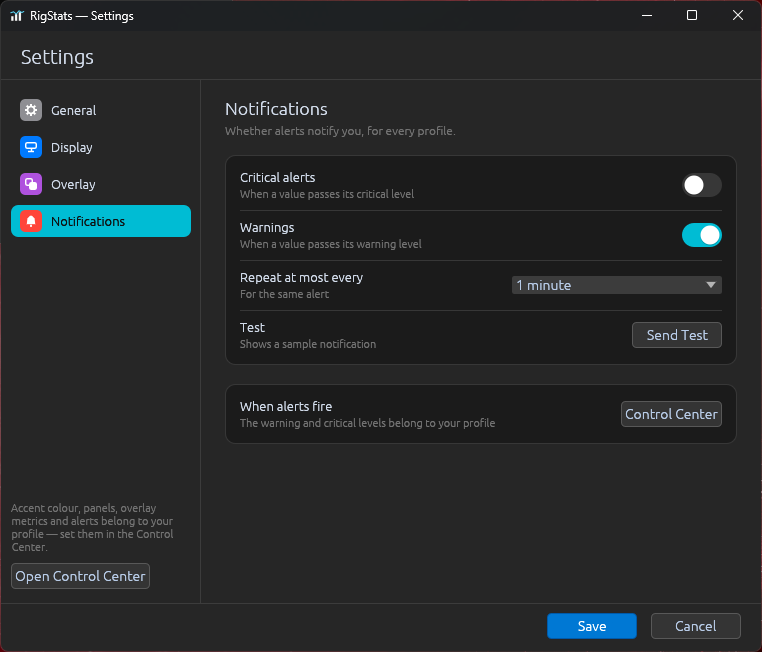
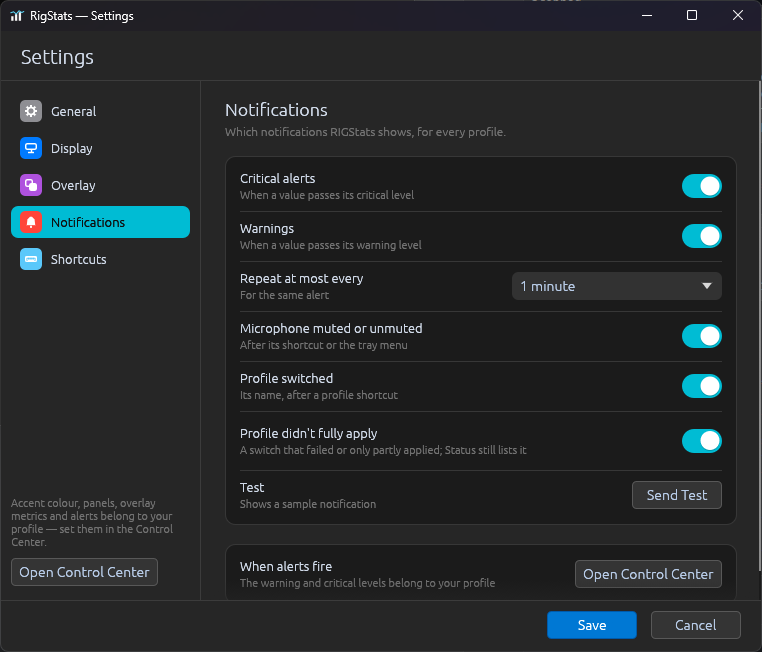
feat(settings): turn off the profile-switch notifications (#602)
Settings -> Notifications gets two switches, both on by default:
"Profile switched" (the profile's name after a profile shortcut) and
"Profile didn't fully apply" (a switch that failed or only partly
applied while the Control Center was closed, #373). With the second off,
Status -> Problems still lists the problem. The page's subtitle now
covers more than alerts.

Closes #601

diff --git a/website/index.html b/website/index.html
@@ -1077,7 +1077,7 @@
               <li><strong>General</strong> — start with Windows, model name, how long recordings are kept</li>
               <li><strong>Display</strong> — display profile, window layer (Normal / Always on Top / Always Behind / Desktop Wallpaper — survives Win+D), fill screen and position, the graphics card shown, power supply rating</li>
               <li><strong>Overlay</strong> — corner and distance from the edge, size, background and opacity, click-through</li>
-              <li><strong>Notifications</strong> — critical alerts and warnings on or off, how often an alert repeats, a test notification</li>
+              <li><strong>Notifications</strong> — critical alerts and warnings on or off, how often an alert repeats, the microphone and profile-switch notifications on or off<span class="badge-soon">Profile switches coming in v1.52.0</span>, a test notification</li>
             </ul>
           </div>
         </article>

diff --git a/rigstats-backend/src/settings.rs b/rigstats-backend/src/settings.rs
@@ -188,6 +188,15 @@ pub struct Settings {
     /// Whether muting or unmuting the microphone shows a notification (#425).
     #[serde(default = "default_true")]
     pub microphone_notify: bool,
+    /// Whether switching profile with a shortcut shows the profile's name
+    /// (#601).
+    #[serde(default = "default_true")]
+    pub profile_notify: bool,
+    /// Whether a profile switch that failed or only partly applied, with the
+    /// Control Center closed, shows a notification (#373, #601). Status →
+    /// Problems lists it either way.
+    #[serde(default = "default_true")]
+    pub profile_problem_notify: bool,
     /// The global shortcuts' chords, or off (#569); a file without them
     /// gets the chords from before (`Shortcuts::default`).
     #[serde(default)]
@@ -450,6 +459,8 @@ impl Default for Settings {
             notify_on_crit: true,
             microphone_device: None,
             microphone_notify: true,
+            profile_notify: true,
+            profile_problem_notify: true,
             shortcuts: Shortcuts::default(),
             floating_mode: false,
             floating_panel_scale: default_floating_panel_scale(),
@@ -752,6 +763,18 @@ pub fn persist_settings(dir: &Path, settings: &Settings) -> Result<(), String> {
 
 #[cfg(test)]
 mod tests {
+    #[test]
+    fn the_profile_notifications_are_on_unless_turned_off() {
+        assert!(super::Settings::default().profile_notify);
+        assert!(super::Settings::default().profile_problem_notify);
+        // A file from before #601 has neither.
+        let s: super::Settings = serde_json::from_str(r#"{"settingsVersion":1}"#).unwrap();
+        assert!(s.profile_notify && s.profile_problem_notify);
+        let s: super::Settings =
+            serde_json::from_str(r#"{"settingsVersion":1,"profileNotify":false}"#).unwrap();
+        assert!(!s.profile_notify && s.profile_problem_notify);
+    }
+
     use super::atomic_write;
 
     #[test]

diff --git a/src-egui/src/main.rs b/src-egui/src/main.rs
@@ -526,9 +526,7 @@ impl RigStatsApp {
         let next = &profiles[current_idx.map_or(0, |i| (i + 1) % profiles.len())];
         let (id, name) = (next.id.clone(), next.name.clone());
         self.apply_profile(id);
-        std::thread::spawn(move || {
-            let _ = rigstats_egui::notify::send("Profile", &name);
-        });
+        self.notify_profile_switched(name);
     }
 
     /// The profile shortcuts (Ctrl+Alt+F1…F9 by default): the profile at that position in the profile bar
@@ -544,6 +542,15 @@ impl RigStatsApp {
         }
         let (id, name) = (profile.id.clone(), profile.name.clone());
         self.apply_profile(id);
+        self.notify_profile_switched(name);
+    }
+
+    /// The profile's name after a shortcut switched to it, unless turned off
+    /// in Settings → Notifications (#601).
+    fn notify_profile_switched(&self, name: String) {
+        if !self.current_settings.lock_safe().profile_notify {
+            return;
+        }
         std::thread::spawn(move || {
             let _ = rigstats_egui::notify::send("Profile", &name);
         });
@@ -626,6 +633,11 @@ impl RigStatsApp {
         let Some(problem) = notification else {
             return;
         };
+        // Off in Settings → Notifications (#601): Status → Problems still
+        // lists it.
+        if !self.current_settings.lock_safe().profile_problem_notify {
+            return;
+        }
         let body = problem.detail.unwrap_or(problem.message);
         std::thread::spawn(move || {
             let _ = rigstats_egui::notify::send(&problem.title, &body);

diff --git a/src-egui/src/windows/settings.rs b/src-egui/src/windows/settings.rs
@@ -953,7 +953,7 @@ fn notifications_page(
         ui,
         dc,
         "Notifications",
-        "Whether alerts notify you, for every profile.",
+        "Which notifications RIGStats shows, for every profile.",
     );
     // Turned off in Windows: say so here, where someone looks first (#449).
     #[cfg(windows)]
@@ -998,6 +998,20 @@ fn notifications_page(
             Some("After its shortcut or the tray menu"),
             |ui| {
                 ui_kit::toggle(ui, dc, &mut draft.microphone_notify);
+            },
+        );
+        g.row(
+            "Profile switched",
+            Some("Its name, after a profile shortcut"),
+            |ui| {
+                ui_kit::toggle(ui, dc, &mut draft.profile_notify);
+            },
+        );
+        g.row(
+            "Profile didn't fully apply",
+            Some("A switch that failed or only partly applied; Status still lists it"),
+            |ui| {
+                ui_kit::toggle(ui, dc, &mut draft.profile_problem_notify);
             },
         );
         g.row("Test", Some("Shows a sample notification"), |ui| {

diff --git a/release-highlights.md b/release-highlights.md
@@ -16,4 +16,5 @@ comment is ignored. See "Release routine" in docs/release.md.
 # 1.52.0
 - **Compact panels** — in Control Center → Dashboard, the CPU, GPU, RAM and Network panels can be Full or Compact: the key values at a glance (load and temperature rings, usage, up/down and ping) without graphs or per-core bars, about half the height, per profile. As floating panels they are also narrower, and floating panels now scale up to 200 %, so you can make them bigger to read without them getting wide. An idea from @SirBlacky21 — thank you!
 - **Floating panels per profile** — floating panels or the fixed dashboard, and the panels' size, now follow your Control Center profile (Control Center → Dashboard): float them in one profile, keep the fixed dashboard in another, and switching profile switches the layout too. Each profile remembers where you placed its floating panels. The tray's Toggle Floating Mode is gone: switch profile instead.
+- **Quieter profile switches** — Settings → Notifications can turn off the profile's name after a profile shortcut, and the notification when a profile didn't fully apply (Status still lists that).
 - **Choose your own shortcuts** — Settings → Shortcuts lets you change or turn off each global shortcut (overlay, next profile, profile 1–9, microphone): choose New shortcut… and press the keys. You can also give a key to the tray menu's desk lamp, Control Center, Settings, Status, recording and overlay lock (off until you choose one). Handy when another program already uses a shortcut, like NVIDIA App with Ctrl+Alt+M; Status points you there when that happens.

diff --git a/src-egui/src/windows/CLAUDE.md b/src-egui/src/windows/CLAUDE.md
@@ -11,7 +11,7 @@ Every setting has exactly one home:
 | Power plan, fans, CPU/GPU limits, lighting | Start with Windows, model name, recordings |
 | Accent colour, opacity, panels, their order and which are compact, floating panels, their size and positions (#599), desktop background | Display profile, window layer, fill screen, displayed GPU, PSU |
 | Overlay shown, its metrics and layout | Overlay position, size, background, click-through |
-| Alert thresholds | Notifications on/off, repeat interval, the microphone mute toast |
+| Alert thresholds | Notifications on/off, repeat interval, the microphone mute toast, the profile-switch toasts (#601) |
 | — | Which microphone the mute shortcut mutes (#425) |
 | — | The global shortcuts (#569) — Settings → Shortcuts |
 | — | A device's own settings (headset sidetone, noise reduction, #428; headset equalizer bands, #483; mouse DPI, polling, energy …, #431; keyboard sleep, power saving, low-battery level, #460) — kept in the device, edited on the Control Center's Headset / Mouse / Keyboard page, sent at once |

diff --git a/docs/troubleshooting.md b/docs/troubleshooting.md
@@ -249,6 +249,10 @@ RIGStats is listed under Windows **Settings → System → Notifications**.
   → Notifications**: Critical alerts / Warnings) and its level in the profile
   (**Control Center → Alerts**). The same alert repeats at most once per
   "Repeat at most every".
+- **Profile notifications you don't want** — the profile's name after a
+  profile shortcut, and "Profile didn't fully apply" after a switch, can each be
+  turned off in **Settings → Notifications** (Profile switched / Profile didn't
+  fully apply). Status still lists a profile that didn't apply.
 
 <a id="can-i-change-which-display-is-used"></a>
 <a id="can-i-switch-dashboard-size-manually"></a>
